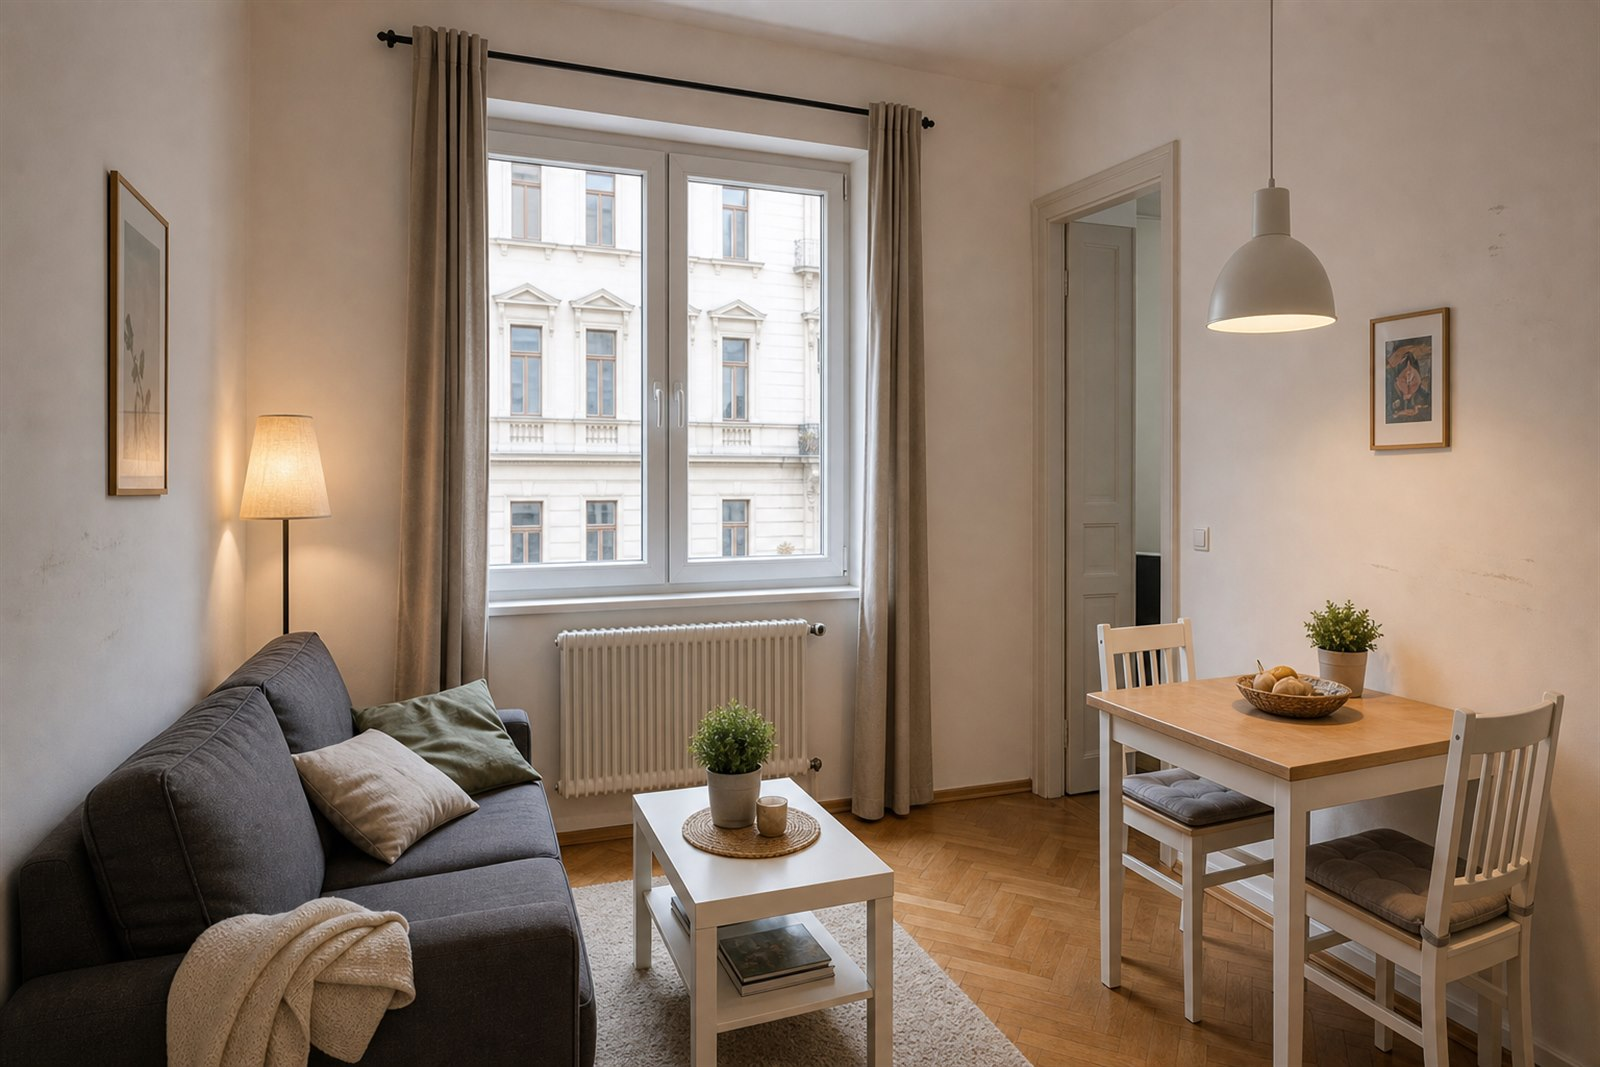
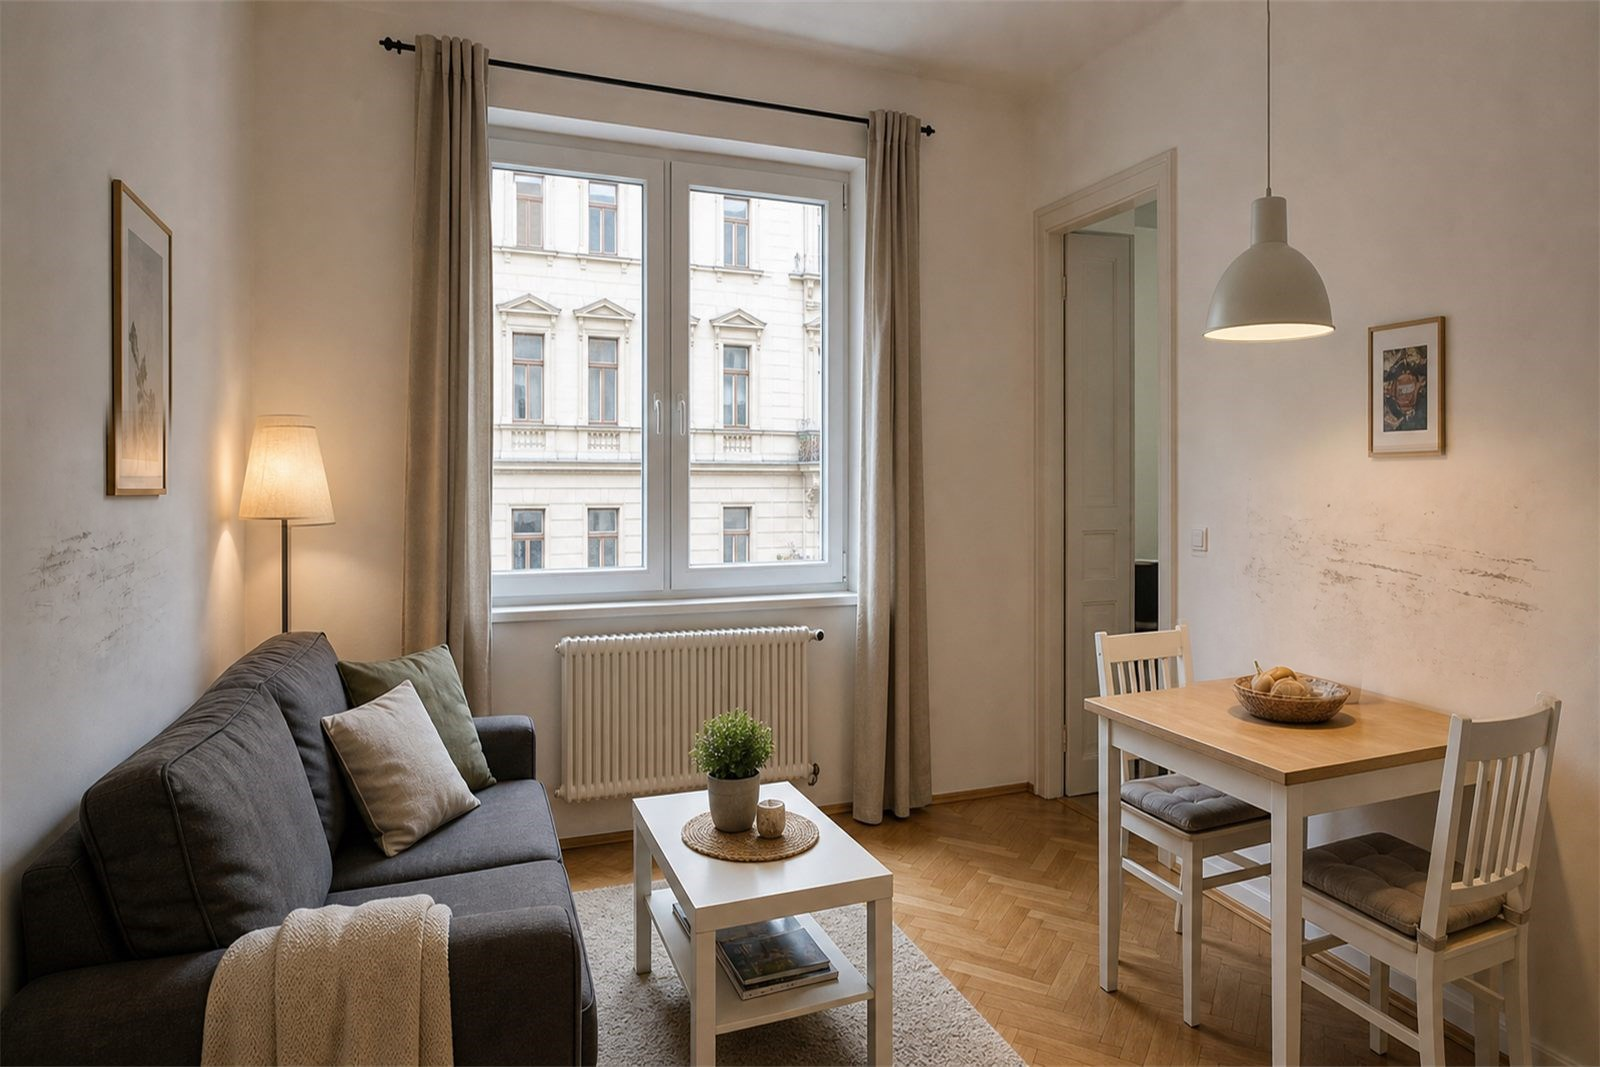
Make every comparison slider clear and touch-ready

diff --git a/script.js b/script.js
@@ -1057,15 +1057,14 @@
     document.getElementById("projectInner").innerHTML = `
       <div class="project-layout" data-project-index="${index}">
         <div>
-          <div class="compare" id="compare">
+          <div class="compare" id="compare" role="slider" tabindex="0" aria-valuemin="5" aria-valuemax="95" aria-valuenow="50" aria-label="${state.lang === "hu" ? "Előtte-utána összehasonlító csúszka" : "Before and after comparison slider"}" aria-describedby="compareHint">
             <img class="after" src="${img(item.after, 1200)}" alt="${tx(item.title)} - ${tx(phaseLabel.after)}">
             <img class="before" src="${img(item.before, 1200)}" alt="${tx(item.title)} - ${tx(phaseLabel.before)}">
             <span class="label left">${tx(phaseLabel.before)}</span>
             <span class="label right">${tx(phaseLabel.after)}</span>
-            <span class="handle"></span>
+            <span class="handle" aria-hidden="true"></span>
           </div>
-          <p class="compare-hint">${state.lang === "hu" ? "Azonos helyszínt közel azonos nézőpontból bemutató, illusztratív állapotpár. Húzza a csúszkát az előtte-utána összehasonlításhoz." : "A matched illustrative condition pair showing the same location from nearly the same viewpoint. Move the slider to compare before and after."}</p>
-          <input class="range" id="range" type="range" min="5" max="95" value="50" aria-label="${state.lang === "hu" ? "Előtte-utána összehasonlító csúszka" : "Before and after comparison slider"}">
+          <p class="compare-hint" id="compareHint">${state.lang === "hu" ? "Azonos helyszínt közel azonos nézőpontból bemutató, illusztratív állapotpár. Húzza a fogantyút, vagy használja a nyílbillentyűket az összehasonlításhoz." : "A matched illustrative condition pair showing the same location from nearly the same viewpoint. Drag the handle or use the arrow keys to compare."}</p>
           <div class="phase-filter">
             <button class="active" data-phase-filter="all">${state.lang === "hu" ? "Összes kép" : "All photos"}</button>
             <button data-phase-filter="before">${tx(phaseLabel.before)} (${counts.before})</button>
@@ -1104,10 +1103,8 @@
     const modal = document.getElementById("projectModal");
     modal.setAttribute("aria-labelledby", "projectModalTitle");
     openModal(modal);
-    const range = document.getElementById("range");
     const compare = document.getElementById("compare");
-    range.addEventListener("input", () => setComparePosition(compare, range, range.value));
-    initCompare(compare, range);
+    initCompare(compare);
     document.querySelectorAll("[data-phase-filter]").forEach((btn) => {
       btn.addEventListener("click", () => {
         document.querySelectorAll("[data-phase-filter]").forEach((item) => item.classList.remove("active"));
@@ -1119,24 +1116,41 @@
     initCarousels(document.getElementById("projectModal"));
   };
 
-  const setComparePosition = (compare, range, value) => {
+  const setComparePosition = (compare, value) => {
     const next = Math.max(5, Math.min(95, Number(value)));
     compare.style.setProperty("--split", `${next}%`);
-    range.value = String(next);
-    range.setAttribute(
+    compare.setAttribute("aria-valuenow", String(Math.round(next)));
+    compare.setAttribute(
       "aria-valuetext",
-      state.lang === "hu" ? `${next}% előtte kép` : `${next}% before image`
+      state.lang === "hu" ? `${Math.round(next)}% előtte kép` : `${Math.round(next)}% before image`
     );
   };
 
-  const initCompare = (compare, range) => {
+  const initCompare = (compare) => {
+    if (compare.dataset.bound === "true") return;
+    compare.dataset.bound = "true";
     let dragging = false;
+    let animationFrame = 0;
+    let pendingClientX = 0;
+    const updateFromClientX = (clientX) => {
+      pendingClientX = clientX;
+      if (animationFrame) return;
+      animationFrame = requestAnimationFrame(() => {
+        animationFrame = 0;
+        const rect = compare.getBoundingClientRect();
+        if (!rect.width) return;
+        setComparePosition(compare, ((pendingClientX - rect.left) / rect.width) * 100);
+      });
+    };
     const updateFromPointer = (event) => {
-      const rect = compare.getBoundingClientRect();
-      setComparePosition(compare, range, ((event.clientX - rect.left) / rect.width) * 100);
+      updateFromClientX(event.clientX);
     };
     compare.addEventListener("pointerdown", (event) => {
+      if (event.pointerType === "mouse" && event.button !== 0) return;
       dragging = true;
+      compare.classList.add("is-dragging");
+      compare.focus({ preventScroll: true });
+      if (event.pointerType === "mouse") event.preventDefault();
       try {
         compare.setPointerCapture?.(event.pointerId);
       } catch {
@@ -1147,12 +1161,38 @@
     compare.addEventListener("pointermove", (event) => {
       if (dragging) updateFromPointer(event);
     });
-    const stop = () => {
+    const stop = (event) => {
       dragging = false;
+      compare.classList.remove("is-dragging");
+      try {
+        if (event?.pointerId !== undefined && compare.hasPointerCapture?.(event.pointerId)) {
+          compare.releasePointerCapture(event.pointerId);
+        }
+      } catch {
+        // Pointer capture may already have been released by the browser.
+      }
     };
     compare.addEventListener("pointerup", stop);
     compare.addEventListener("pointercancel", stop);
-    setComparePosition(compare, range, range.value);
+    compare.addEventListener("lostpointercapture", stop);
+    compare.addEventListener("keydown", (event) => {
+      const current = Number(compare.getAttribute("aria-valuenow")) || 50;
+      const step = event.shiftKey ? 5 : 1;
+      const values = {
+        ArrowLeft: current - step,
+        ArrowDown: current - step,
+        ArrowRight: current + step,
+        ArrowUp: current + step,
+        PageDown: current - 10,
+        PageUp: current + 10,
+        Home: 5,
+        End: 95
+      };
+      if (!(event.key in values)) return;
+      event.preventDefault();
+      setComparePosition(compare, values[event.key]);
+    });
+    setComparePosition(compare, 50);
   };
 
   const initCarousels = (root = document) => {

diff --git a/styles.css b/styles.css
@@ -282,9 +282,36 @@ input:focus-visible,
 }
 
 .compare {
-  cursor: ew-resize;
+  cursor: grab;
+  outline: 0;
+  overscroll-behavior: contain;
   touch-action: pan-y;
   user-select: none;
+}
+
+.compare img,
+.compare .label,
+.compare .handle {
+  pointer-events: none;
+}
+
+.compare .before {
+  will-change: clip-path;
+}
+
+.compare.is-dragging {
+  cursor: grabbing;
+}
+
+.compare:focus-visible {
+  outline: 3px solid #f3c275;
+  outline-offset: 4px;
+}
+
+.handle {
+  width: 2px;
+  box-shadow: 0 0 0 1px rgba(18, 35, 27, 0.22), 0 0 18px rgba(18, 35, 27, 0.32);
+  transform: translateX(-50%);
 }
 
 .handle::after {
@@ -292,20 +319,16 @@ input:focus-visible,
   top: 50%;
   left: 50%;
   display: grid;
-  width: 38px;
-  height: 38px;
+  width: 44px;
+  height: 44px;
   place-items: center;
   content: "↔";
   border: 2px solid white;
   border-radius: 50%;
-  background: rgba(21, 54, 41, 0.86);
+  background: rgba(21, 54, 41, 0.92);
+  box-shadow: 0 8px 24px rgba(9, 24, 17, 0.28);
   color: white;
   transform: translate(-50%, -50%);
-}
-
-.range {
-  min-height: 44px;
-  accent-color: var(--green);
 }
 
 .carousel-slide {

diff --git a/index.html b/index.html
@@ -26,7 +26,7 @@
     <meta property="og:locale:alternate" content="en_GB" />
     <meta property="og:image" content="https://techmoon7.github.io/budapest-property-services/assets/budapest-apartment-wall-refresh.jpg" />
     <meta name="theme-color" content="#275c43" />
-    <link rel="stylesheet" href="styles.css?v=agency-polish-3" />
+    <link rel="stylesheet" href="styles.css?v=agency-polish-4" />
     <script type="application/ld+json">
       {
         "@context": "https://schema.org",
@@ -51,7 +51,7 @@
         ]
       }
     </script>
-    <script src="script.js?v=agency-polish-3" defer></script>
+    <script src="script.js?v=agency-polish-4" defer></script>
   </head>
   <body>
     <noscript>